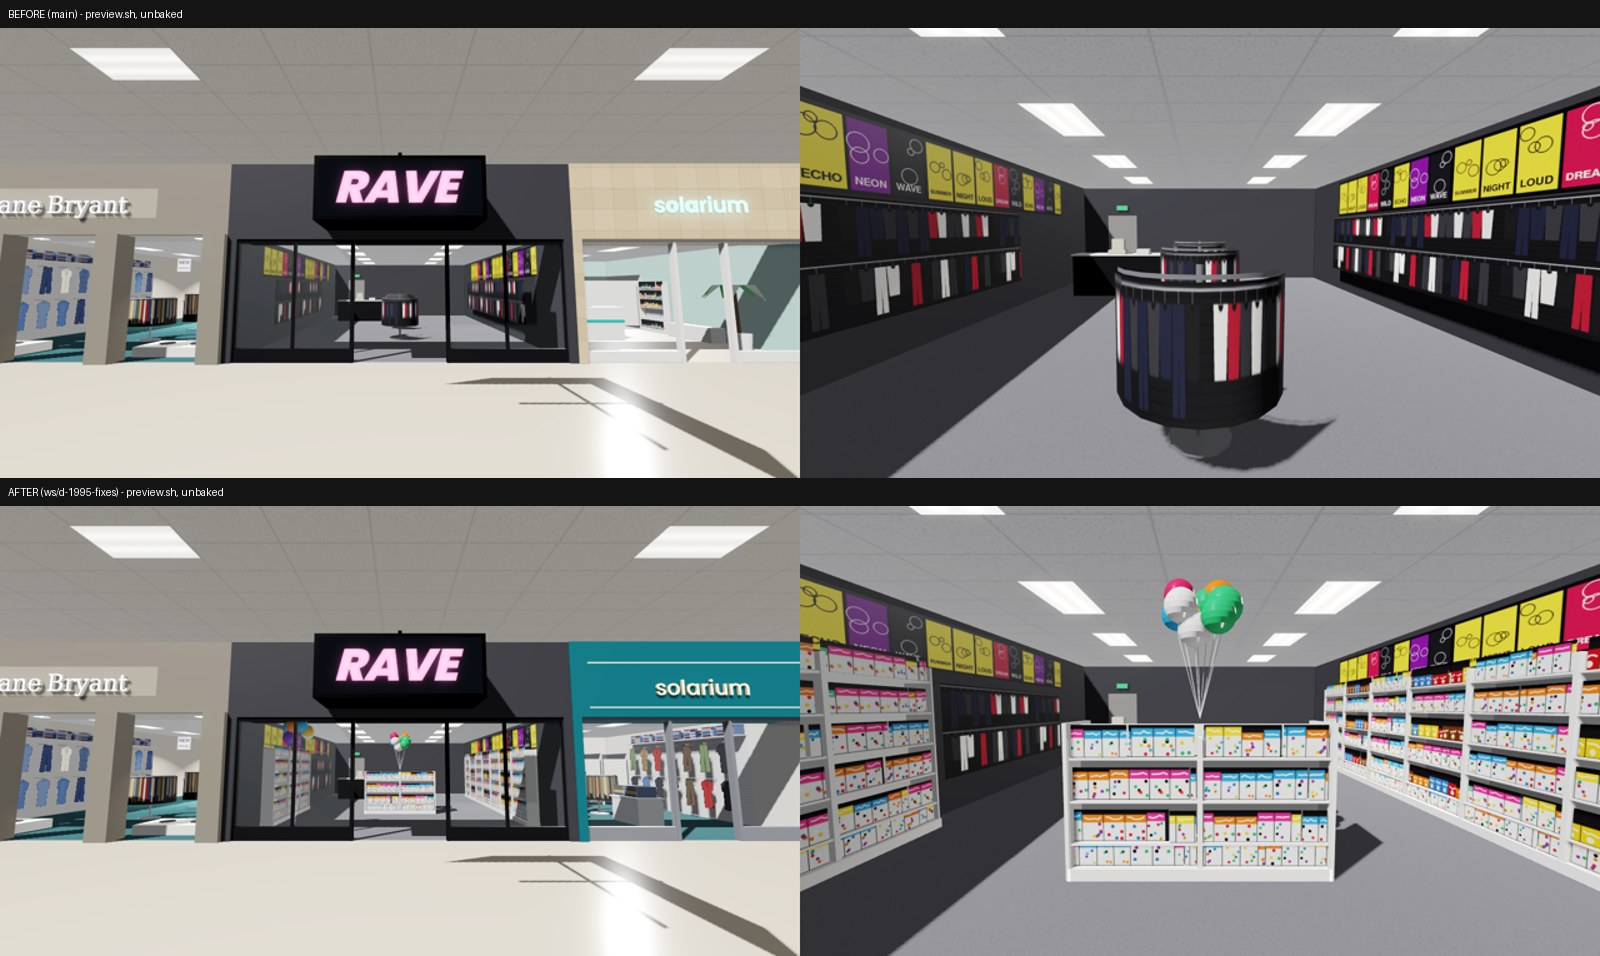
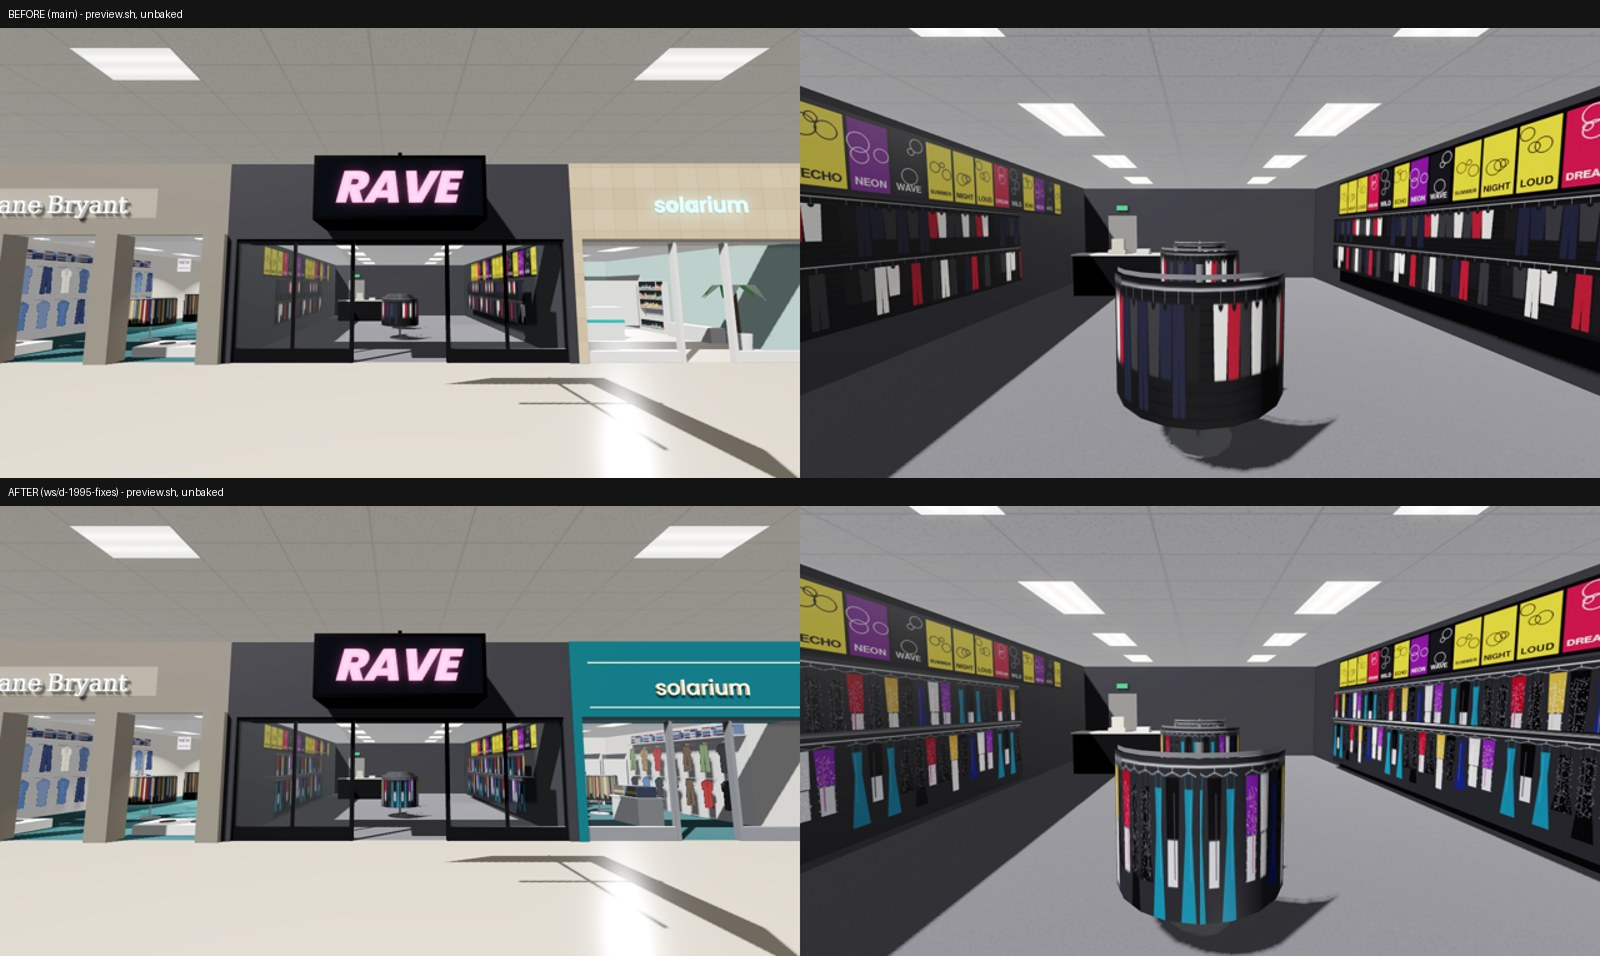
fix: Sound Shop front open, Rave as women's going-out clothes, Solarium a plain clothing shop
Follows Steven's Nov 1 answers in design/storefronts/sound-shop.md,
rave.md and solarium.md: Sound Shop's glass front and recessed door are
gone (open between the black pillars, grille box under the band); Rave
sells slip dresses, sequin minis and satin tops on wall rails and round
racks instead of party supplies; Solarium's note drops the Cleo question.
New in-game and preview evidence. Workstream D, items 1, 5, 6.

Claude-Session: https://claude.ai/code/session_01N4y2z79ksN3ASkU4xjwGQB

diff --git a/prototypes/godot-mall/project/tools/stores/small/paint9_d.py b/prototypes/godot-mall/project/tools/stores/small/paint9_d.py
@@ -11,6 +11,8 @@ written to tex/w9/*.png:
 - concepts_spatter.png: spatter-paint flecks for the window solids (Steven: "the shapes are
   right; texture them more"; the finish is a guess, a period kids'-store look).
 
+- rave_dresses.png: Rave's going-out clothes hung face-out (Steven, Nov 1).
+
 Everything is invented apart from the store's own name.
   python3 tools/stores/small/paint9_d.py   (from the project folder)
 """
@@ -137,6 +139,49 @@ def spatter():
     save(im, "concepts_spatter", 16)
 
 
+def rave_dresses():
+    """Rave's walls (Steven, Nov 1: "a clothing store, just party type clothes for women going
+    out"): going-out clothes hung face-out on a rail: slip dresses, sequin minis, satin tops,
+    a few black. 1024 x 512 = 2.4 m x 1.35 m (repeats along the wall). Invented, no labels."""
+    W, H = 1024 * SS, 512 * SS
+    rnd = random.Random(941)
+    im = Image.new("RGB", (W, H), (44, 44, 48))
+    d = ImageDraw.Draw(im)
+    d.rectangle([0, 18 * SS, W, 24 * SS], fill=(190, 192, 198))          # the chrome rail
+    cols = [(196, 20, 60), (20, 20, 22), (120, 40, 160), (210, 210, 220), (230, 70, 140), (30, 120, 150),
+            (20, 20, 22), (200, 160, 60), (160, 20, 40), (30, 40, 110)]
+    x = 8 * SS
+    while x < W - 40 * SS:
+        c = rnd.choice(cols)
+        w = rnd.randint(78, 104) * SS
+        kind = rnd.random()
+        top = 40 * SS
+        d.line([(x + w // 2, 20 * SS), (x + w // 2, top)], fill=(170, 170, 176), width=3 * SS)   # the hanger hook
+        d.line([(x + 10 * SS, top + 6 * SS), (x + w // 2, top - 4 * SS), (x + w - 10 * SS, top + 6 * SS)], fill=(170, 170, 176), width=3 * SS)
+        if kind < 0.55:
+            # a dress: thin straps, a fitted bodice, a skirt flaring to mini or knee length
+            ln = rnd.choice([300, 340, 400]) * SS
+            d.line([(x + w * 0.3, top), (x + w * 0.33, top + 40 * SS)], fill=c, width=2 * SS)
+            d.line([(x + w * 0.7, top), (x + w * 0.67, top + 40 * SS)], fill=c, width=2 * SS)
+            d.polygon([(x + w * 0.28, top + 40 * SS), (x + w * 0.72, top + 40 * SS), (x + w * 0.66, top + 150 * SS),
+                       (x + w * 0.9, top + ln), (x + w * 0.1, top + ln), (x + w * 0.34, top + 150 * SS)], fill=c)
+        else:
+            # a top over a short skirt or slim pants on the same hanger
+            d.polygon([(x + w * 0.15, top + 10 * SS), (x + w * 0.85, top + 10 * SS), (x + w * 0.8, top + 170 * SS), (x + w * 0.2, top + 170 * SS)], fill=c)
+            c2 = rnd.choice([(20, 20, 22), (210, 210, 220), (30, 40, 110)])
+            d.rectangle([x + w * 0.25, top + 175 * SS, x + w * 0.75, top + rnd.choice([300, 380]) * SS], fill=c2)
+        # sequins and satin sheen: flecks on some, a soft highlight on all
+        if rnd.random() < 0.5:
+            for _ in range(160):
+                fx = x + rnd.uniform(0.2, 0.8) * w
+                fy = top + rnd.uniform(40, 300) * SS
+                v = tuple(min(255, k + 90) for k in c)
+                d.ellipse([fx - 2 * SS, fy - 2 * SS, fx + 2 * SS, fy + 2 * SS], fill=v)
+        d.line([(x + w * 0.42, top + 50 * SS), (x + w * 0.38, top + 280 * SS)], fill=tuple(min(255, k + 45) for k in c), width=5 * SS)
+        x += w - 16 * SS
+    save(kb.grain(im.resize((1024, 512), Image.LANCZOS), 1.2, 943), "rave_dresses", 96)
+
+
 def floor():
     N = 512   # 4 x 4 tiles of 0.305 m
     a = np.zeros((N, N, 3), np.float32)
@@ -154,5 +199,5 @@ def floor():
 
 
 if __name__ == "__main__":
-    siding(); sign_serif(); bags(); spatter(); floor()
+    siding(); sign_serif(); bags(); spatter(); floor(); rave_dresses()
     print("wrote tex/w9/concepts_*.png")

diff --git a/design/storefronts/sound-shop.md b/design/storefronts/sound-shop.md
@@ -5,7 +5,7 @@
 - **For period detail:** Valley View Mall, Dallas, Sept 1995 (YouTube `rjvPS1FIqS4`, 3:57–4:17), which shows Camelot Music, a different chain: red letters and a poster band.
 - **The layout:** Steven (Oct 6, 18:30): the registers were on the **left** looking in. Behind them was the concert box office: the counter sold concert tickets. It is built as a generic "TICKETS · CONCERT BOX OFFICE" board, with no ticket company's name or logo.
 
-**Nov 1, 2026: the front rebuilt (workstream D).** Steven (Nov 1): the Hammond frames are not available; build the front from the photo `refs/era_1995/stores/Sound_Shop.jpg` (lit yellow-orange SOUND SHOP letters on a fascia over a glass front, mall not recorded) plus the parts of Southland's own Sound Shop front that still stand in 2026 (SOLA, notes_C IMG_4484 s19; `refs/derived/frames/IMG_4484` f040–f052; `refs/derived/signs/sola_IMG_4484_f055.jpg`). Where the photo and this note's Oct 6 text disagree, the photo wins. The "Front" section below is the Nov 1 build; the inside is unchanged.
+**Nov 1, 2026: the front rebuilt (workstream D).** Steven (Nov 1): the Hammond frames are not available; build the front from the photo `refs/era_1995/stores/Sound_Shop.jpg` (lit yellow-orange SOUND SHOP letters on a fascia over a glass front, mall not recorded) plus the parts of Southland's own Sound Shop front that still stand in 2026 (SOLA, notes_C IMG_4484 s19; `refs/derived/frames/IMG_4484` f040–f052; `refs/derived/signs/sola_IMG_4484_f055.jpg`). Where the photo and this note's Oct 6 text disagree, the photo wins, except that the front stays open (Steven, Nov 1). The "Front" section below is the Nov 1 build; the inside is unchanged.
 
 **Accuracy level:** 2. The front and the inside come from another mall's Sound Shop. Steven's memory sets the counter.
 
@@ -24,16 +24,16 @@ All covers, posters, act names and dates are invented: scribbled titles, generic
 - **d** runs into the store (−x).
 
 ## Front (rebuilt Nov 1, 2026)
+- **Open storefront (Steven, Nov 1, after the first pass):** "sound shop is an open storefront". No glass and no door: the whole front is open between the pillars, as the Hammond commercial showed. The security grille is rolled up in a slim grey box under the band, with its side tracks at both ends. (A first pass the same day had a glass front with a recessed entry, read from the photo; superseded.)
 - **The band (Southland, 2026 frames).** A black textured-stucco fascia band, 2.75–3.6 m, standing 0.45 m out, bull-nosed top and bottom, straight across the middle and curving back to the wall in quarter circles (0.45 m radius) at both ends. A white soffit under it. Cream mall wall above (as the lane today).
 - **Letters (photo).** "SOUND SHOP" in fat rounded italic capitals (Nunito Black Italic outlines, `ss_letters.json`, scaled to 0.44 m caps, 4.4 m long), lit yellow-orange faces with red-orange lit returns, on the band's face, and a warm orange omni light washing the band and the floor in front.
-- **Pillars (Southland).** Two glossy black round pillars, 0.4 m across, under the band's curved ends.
-- **Glass (photo).** Plate glass in satin-aluminium frames on a low black base from the right pier to u 3.85, a centre mullion. Left of centre (as in the photo) a recessed entry: angled glass in from the window line to a door line 1 m back (door u 4.25–5.35), the doorway open with the security grille rolled up in its box over it, a glass transom.
-- **Threshold (Southland).** Black 8-inch tile (0.2 m) from 0.65 m out in the hall, through the recess to the door.
-- **Inside the front.** A white soffit over the recess and the first metre, two downlights; the SALE $9.99 card on its chrome stand now stands in the window.
-- **Superseded Nov 1:** the dark grey fascia, the rose-red letters, and the wide-open front between dark grey piers (Hammond commercial via the Oct 6 note).
-- **Guessed:** the entry on the left (the photo has its door left of centre, and the registers are on the left, Steven); aluminium frames rather than black (the photo shows satin metal; the black glass today is SOLA's); the letter size (the photo's letters fill the band); which store's photo it is (not recorded: it may be another Sound Shop of the chain, so the band shape and pillars follow Southland, the letters and glass follow the photo).
-- **Period check (1995):** channel letters, satin-aluminium storefront, roll-up grille, black ceramic tile, stucco fascia: all normal in 1980s–90s malls. No anachronism.
-- **Files (Nov 1):** `tools/stores/media/sound_shop.gd` (`front()`), `paint_ss_front.py` → `tex/md/ss_stucco.png`, `ss_tile_black.png`; materials `md_ss_*` in `kit.gd`. Evidence: `production/qa/evidence/wsD-sound-shop-preview-unbaked.jpg`.
+- **Pillars (Southland).** Two glossy black round pillars, 0.4 m across, under the band's curved ends, framing the opening.
+- **Threshold (Southland).** Black 8-inch tile (0.2 m) from 0.65 m out in the hall to 0.4 m inside the opening.
+- **Inside the front.** A white soffit over the first 0.8 m with three downlights; the SALE $9.99 card on its chrome stand just inside, as before.
+- **Superseded Nov 1:** the dark grey fascia and the rose-red letters (Hammond commercial via the Oct 6 note); the open front itself stays, as Steven says.
+- **Guessed:** the letter size (the photo's letters fill the band); which store the photo shows (not recorded: it may be another Sound Shop of the chain, so the band and pillars follow Southland, the letters follow the photo); the grille box.
+- **Period check (1995):** channel letters, open mall front with a roll-up grille, black ceramic tile, stucco fascia: all normal in 1980s–90s malls. No anachronism.
+- **Files (Nov 1):** `tools/stores/media/sound_shop.gd` (`front()`), `paint_ss_front.py` → `tex/md/ss_stucco.png`, `ss_tile_black.png`; materials `md_ss_*` in `kit.gd`. Evidence: `production/qa/evidence/wsD-sound-shop-preview-unbaked.jpg`, `wsD-sound-shop-ingame-unbaked.jpg`.
 
 ### Oct 6 front (superseded)
 

diff --git a/design/storefronts/rave.md b/design/storefronts/rave.md
@@ -23,10 +23,10 @@
 See photos/ (Steven's photos for this store) and tools/stores/signs/ (make_logos.py batch3, channel.gd sg_* materials).
 A black box sign hung out over the entrance (3.4 x 1.3 m, 1.2 m deep, on a stem to the ceiling), dark glass face, RAVE in pink lit letters (Poppins Black, OFL, slanted 14 degrees). Replaces the brushed-steel panels and red letters.
 
-## Nov 1, 2026 (workstream D): party goods
-Steven (Nov 1): "mostly party stuff, a few black items."
-- **Read as:** party goods and novelties, with a few black clothes. Built: wall bays of packaged party goods (Woolworth's invented party and candy stock sheets, `md/stock_party`, `stock_candy`) down the left wall and the front of the right wall, under the poster band; a low two-bay gondola of party goods down the middle; bunches of helium balloons (bright latex rounds on white strings) over the gondola and in the right window; a short wall of black tees on the right wall by the cash wrap; one black-dressed form in the left window. The posters stay high on both walls; the round racks of black clothes are gone.
-- **Guessed / open:** whether "party stuff" means party supplies (built) or party and club wear. If it is clothes, the bays swap back to racks. Rave the chain sold juniors' clothing in the 1990s; Steven's memory is followed.
-- **Period check (1995):** latex balloons, packaged party goods, posters with invented words: no anachronism.
+## Nov 1, 2026 (workstream D): going-out clothes
+Steven (Nov 1): "mostly party stuff, a few black items", then: "rave is a clothing store, just 'party' type clothes for women going out." (A first pass the same day read "party stuff" as party supplies and balloons; superseded.)
+- **Built:** going-out clothes for women: slip dresses, sequin minis, satin tops over short skirts or slim pants, in jewel colours (red, purple, teal, navy, gold), silver and white, and some black (`w9/rave_dresses.png`, painted by `paint9_d.py`, invented, no labels). Hung face-out on chrome wall rails in two tiers down both walls (dresses below, tops above), and on three round racks down the middle. Forms in the windows: a red dress, and a silver top over black. The posters stay high on both walls; the cash wrap stays at the back.
+- **Guessed:** the mix of colours and garments, the fixtures.
+- **Period check (1995):** slip dresses, sequins and satin going-out tops are mid-1990s juniors' and women's fashion; no anachronism.
 - **Unchanged:** the front (the black box sign with RAVE in pink, Oct 7 sign pass).
-- Code: `wave9.gd` `rave()` and `balloons()`, material `w9_balloon`. Evidence: `production/qa/evidence/wsD-rave-preview-unbaked.jpg`.
+- Code: `wave9.gd` `rave()`, materials `w9_rave_dresses`, `w9_rave_rack`. Evidence: `production/qa/evidence/wsD-rave-preview-unbaked.jpg`, `wsD-rave-ingame-unbaked.jpg`.

diff --git a/design/storefronts/solarium.md b/design/storefronts/solarium.md
@@ -1,10 +1,10 @@
 # Solarium: front and store (1995 map, store n8)
 
-**Nov 1, 2026: rebuilt as a clothing store (workstream D).** Steven (Nov 1): "NOT a tanning salon. It is the teal clothing store from the 2D game … a Cleo."
+**Nov 1, 2026: rebuilt as a clothing store (workstream D).** Steven (Nov 1): "NOT a tanning salon. It is the teal clothing store from the 2D game", and, asked whether "a Cleo" meant the chain: "solarium is just a clothing shop."
 
 **Sources.**
 - **The 2D game (index.html, year maps, store n8 "SOLARIUM").** Sign band `#1f6f78` (teal), letters `#f6e7c0` (cream), merchandise colours cream, teal and white. The data names no chain and has no sign text beyond the store name (the same record is used for n62).
-- **Steven's word "a Cleo".** Not in the 2D data. Cleo is a women's clothing chain; whether Steven means that Solarium was a Cleo store, or a store like a Cleo, is **an open question** (asked in the Nov 1 report). Until he answers, the store is built as a generic teal 1990s women's clothing shop under the name Solarium, with no Cleo branding.
+- **Steven (Nov 1): "just a clothing shop".** Not a Cleo store: a generic teal 1990s clothing shop under its own name, Solarium, with no chain branding.
 - **Superseded:** the Oct 7 build from the facade record (level 1, memory): a pale stone fascia, aqua neon, a tanning-salon lobby with two tanning rooms. Steven says that record is wrong for this store.
 
 **Accuracy level:** 1 (colours from the 2D game; everything else guessed).
@@ -24,4 +24,4 @@
 **Guessed:** all of the layout and fixtures, the lower-case name on the fascia (the 2D game only gives the name), the letter style, the depth. **Period check (1995):** slatwall, round racks, four-ways, teal-and-cream palette are all period; nothing later than 1995.
 
 ## Files
-`tools/stores/small/wave9.gd` (`solarium()`, materials `w9_sol_*`). Hooks unchanged in `tools/build_mall.gd` and `tools/open_interiors.py`. Evidence: `production/qa/evidence/wsD-solarium-preview-unbaked.jpg`.
+`tools/stores/small/wave9.gd` (`solarium()`, materials `w9_sol_*`). Hooks unchanged in `tools/build_mall.gd` and `tools/open_interiors.py`. Evidence: `production/qa/evidence/wsD-solarium-preview-unbaked.jpg`, `wsD-solarium-ingame-unbaked.jpg`.
